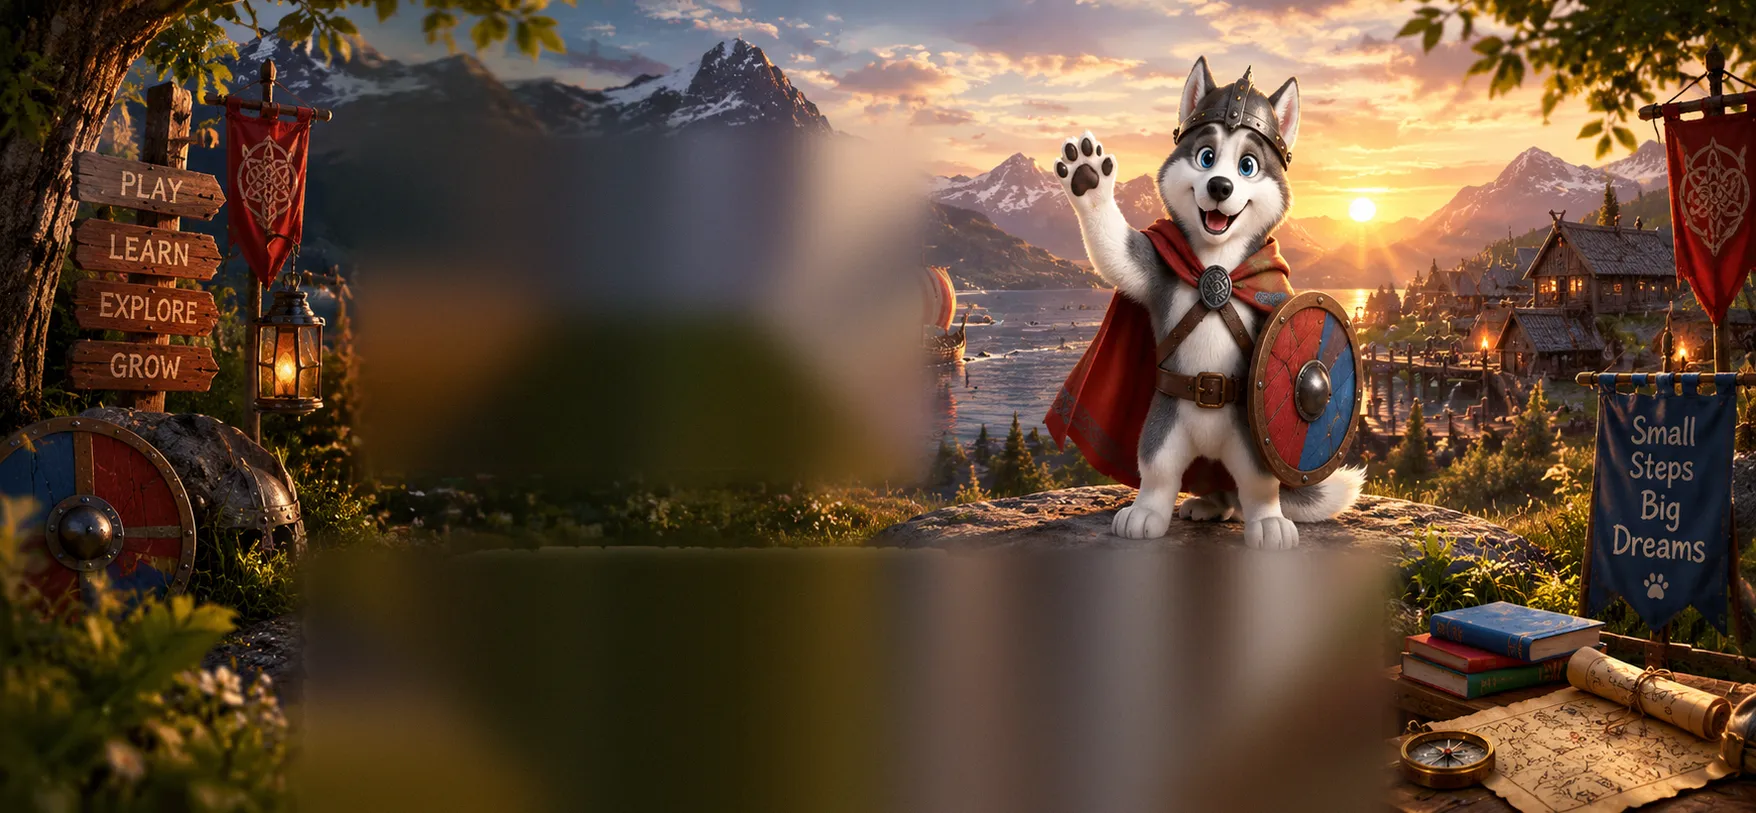
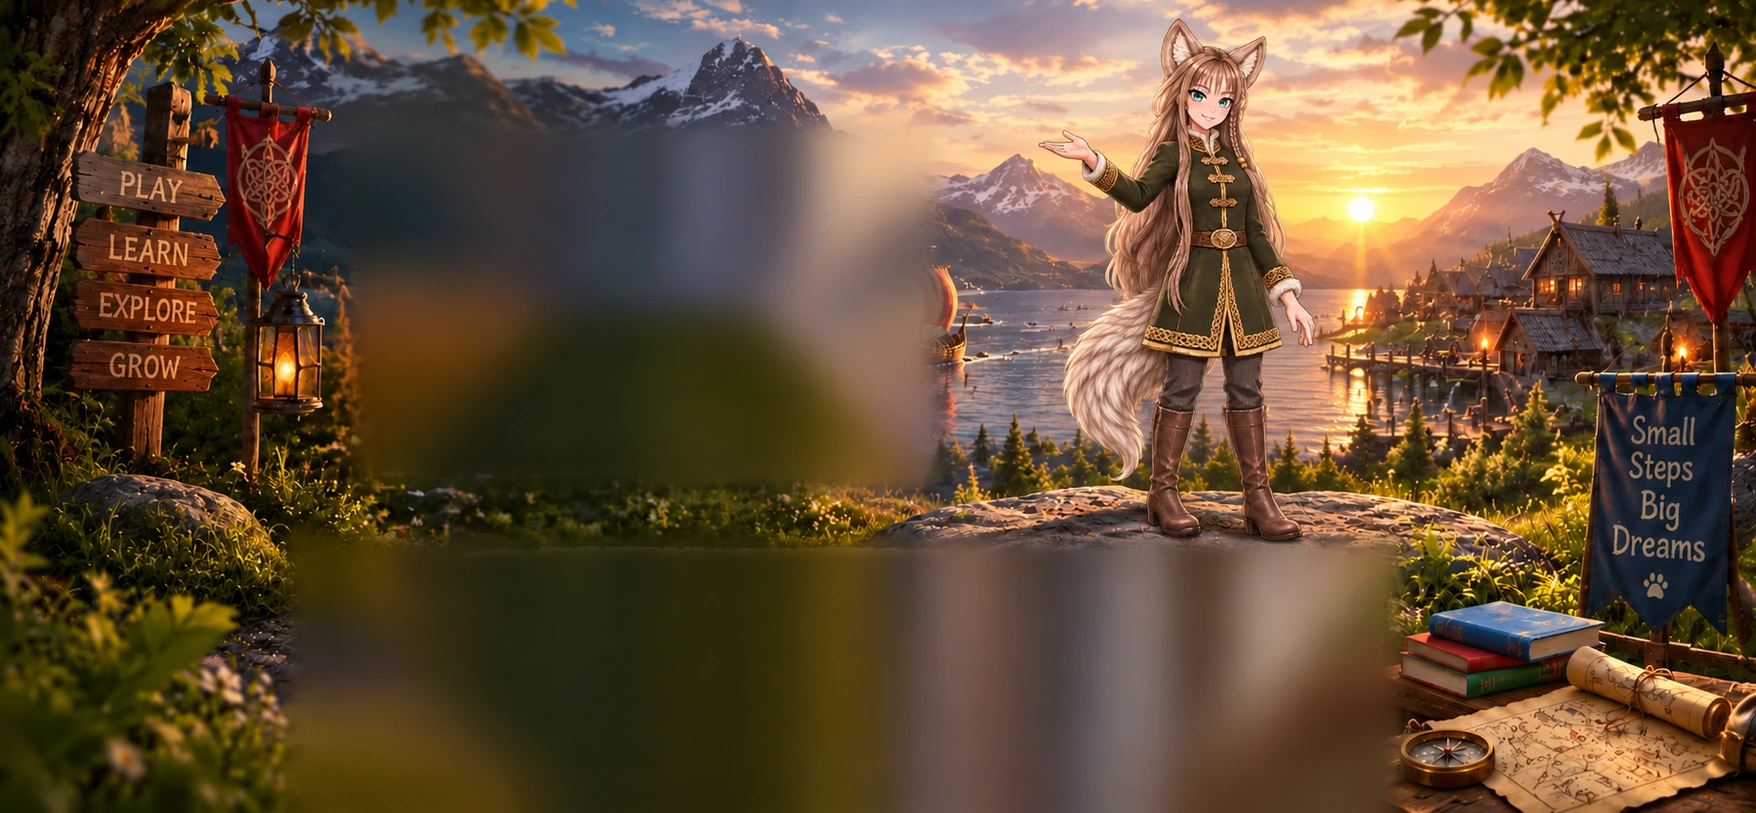
Update MEC characters and individual pricing from approved brochure

diff --git a/precios.html b/precios.html
@@ -1,34 +1,30 @@
 <!doctype html>
 <html lang="es"><head><meta charset="utf-8"><meta name="viewport" content="width=device-width,initial-scale=1">
-<title>Precios · Mastery English Club</title><meta name="description" content="Paquetes de clases personalizadas, grupales y combinadas con descuentos de hasta 30 %.">
+<title>Precios · Mastery English Club</title><meta name="description" content="Clases individuales de inglés de 60 minutos. Paquetes con materiales originales y feedback después de cada clase. Ahorra hasta 31,5 % frente a clases sueltas de $79.000 COP.">
 <link rel="icon" href="img/favicon.ico"><link rel="apple-touch-icon" href="img/apple-touch-icon-180.png">
-<link rel="stylesheet" href="css/crm.css?v=20261017b"><link rel="stylesheet" href="css/web.css?v=20261016p"><link rel="stylesheet" href="css/precios-bg.css?v=20261016g"><link rel="manifest" href="manifest.webmanifest"><meta name="theme-color" content="#07101c"><script src="js/pwa.js?v=20261026a" defer></script></head>
+<link rel="stylesheet" href="css/crm.css?v=20261017b"><link rel="stylesheet" href="css/web.css?v=20261016p"><link rel="stylesheet" href="css/precios-bg.css?v=20261116individuales"><link rel="manifest" href="manifest.webmanifest"><meta name="theme-color" content="#07101c"><script src="js/pwa.js?v=20261026a" defer></script></head>
 <body class="web precios-p precios-bg2"><nav id="site-nav" aria-label="Principal"></nav>
 <main class="precios-v3">
   <picture class="hero-bg precios-bg">
     <source media="(max-width: 700px)" srcset="img/web/hero-precios-mobile.webp" type="image/webp">
     <source srcset="img/web/hero-precios-800.webp 800w, img/web/hero-precios-1280.webp 1280w, img/web/hero-precios-1536.webp 1536w" sizes="100vw" type="image/webp">
-    <img src="img/web/hero-precios-1280.jpg" width="1536" height="978" alt="Mercado vikingo al atardecer: un lobo con casco carga una pila de libros junto al puerto" fetchpriority="high" decoding="async">
+    <img src="img/web/hero-precios-1280.jpg" width="1536" height="978" alt="Skarlat sostiene una pila de libros en un mercado nórdico junto al fiordo al atardecer" fetchpriority="high" decoding="async">
   </picture>
   <header class="precios-hero"><div class="ph-text"><span class="kicker">Invierte en tu futuro</span>
-    <h1>Paquetes con hasta 30% de descuento</h1>
-    <p class="lead">Elige el plan que mejor se adapte a ti y accede a todo el material, la metodología y los beneficios de MEC.</p>
-    <ul class="ph-feats"><li><svg viewBox="0 0 24 24" aria-hidden="true"><circle cx="12" cy="12" r="11.5" fill="rgba(7,12,22,.8)" stroke="#d9a84a"/><path d="M6 7h5v10H6zM13 7h5v10h-5z" fill="none" stroke="#f0c46a" stroke-width="1.3"/></svg><span>Libros físicos y digitales</span></li><li><svg viewBox="0 0 24 24" aria-hidden="true"><circle cx="12" cy="12" r="11.5" fill="rgba(7,12,22,.8)" stroke="#d9a84a"/><circle cx="12" cy="12" r="4" fill="none" stroke="#f0c46a" stroke-width="1.3"/><path d="M12 5v3M12 16v3M5 12h3M16 12h3" stroke="#f0c46a" stroke-width="1.3"/></svg><span>Actividades y proyectos</span></li><li><svg viewBox="0 0 24 24" aria-hidden="true"><circle cx="12" cy="12" r="11.5" fill="rgba(7,12,22,.8)" stroke="#d9a84a"/><path d="M5 7h14v8H5zM9 18h6M12 15v3" fill="none" stroke="#f0c46a" stroke-width="1.3"/></svg><span>Acceso a la plataforma</span></li><li><svg viewBox="0 0 24 24" aria-hidden="true"><circle cx="12" cy="12" r="11.5" fill="rgba(7,12,22,.8)" stroke="#d9a84a"/><circle cx="12" cy="9" r="3" fill="none" stroke="#f0c46a" stroke-width="1.3"/><path d="M6 18c1-3 3.5-4.5 6-4.5s5 1.5 6 4.5" fill="none" stroke="#f0c46a" stroke-width="1.3"/></svg><span>Soporte personalizado</span></li></ul></div>
+    <h1>Clases individuales con hasta 31,5 % de ahorro</h1>
+    <p class="lead">Sesiones de 60 minutos, centradas en tu inglés. Elige tu paquete: materiales originales de MEC y feedback personalizado después de cada clase incluidos.</p>
+    <ul class="ph-feats"><li><svg viewBox="0 0 24 24" aria-hidden="true"><circle cx="12" cy="12" r="11.5" fill="rgba(7,12,22,.8)" stroke="#d9a84a"/><path d="M6 7h5v10H6zM13 7h5v10h-5z" fill="none" stroke="#f0c46a" stroke-width="1.3"/></svg><span>Materiales originales de MEC</span></li><li><svg viewBox="0 0 24 24" aria-hidden="true"><circle cx="12" cy="12" r="11.5" fill="rgba(7,12,22,.8)" stroke="#d9a84a"/><circle cx="12" cy="12" r="4" fill="none" stroke="#f0c46a" stroke-width="1.3"/><path d="M12 5v3M12 16v3M5 12h3M16 12h3" stroke="#f0c46a" stroke-width="1.3"/></svg><span>Actividades y proyectos</span></li><li><svg viewBox="0 0 24 24" aria-hidden="true"><circle cx="12" cy="12" r="11.5" fill="rgba(7,12,22,.8)" stroke="#d9a84a"/><path d="M5 7h14v8H5zM9 18h6M12 15v3" fill="none" stroke="#f0c46a" stroke-width="1.3"/></svg><span>Acceso a la plataforma</span></li><li><svg viewBox="0 0 24 24" aria-hidden="true"><circle cx="12" cy="12" r="11.5" fill="rgba(7,12,22,.8)" stroke="#d9a84a"/><circle cx="12" cy="9" r="3" fill="none" stroke="#f0c46a" stroke-width="1.3"/><path d="M6 18c1-3 3.5-4.5 6-4.5s5 1.5 6 4.5" fill="none" stroke="#f0c46a" stroke-width="1.3"/></svg><span>Soporte personalizado</span></li></ul></div>
     <button type="button" class="aprende" id="abrir-politicas" aria-haspopup="dialog" aria-controls="politicas">Aprende más sobre nuestros paquetes <span aria-hidden="true">→</span></button>
   </header>
   <div class="pgrid">
-    <section class="ppanel" id="personalizadas" aria-labelledby="t-pers"><h2 id="t-pers">Clases personalizadas 1 a 1</h2><p class="psub">Tu ritmo. Tu objetivo. Tu clase.</p>
+    <section class="ppanel ancho" id="personalizadas" aria-labelledby="t-pers"><h2 id="t-pers">Clases individuales 1 a 1</h2><p class="psub">Tu ritmo. Tu objetivo. Tu clase. Compara cuánto ahorras frente a clases sueltas de $79.000.</p>
       <div class="pcards" id="p-pers"></div><p class="suelta2" id="s-pers"></p></section>
-    <section class="ppanel" id="grupales" aria-labelledby="t-grup"><h2 id="t-grup">Clases grupales</h2><p class="psub">Aprende en equipo, avanza más. Grupos de 2 a 4 estudiantes.</p>
-      <div class="pcards" id="p-grup"></div><p class="suelta2" id="s-grup"></p></section>
-    <section class="ppanel ancho" id="combinados" aria-labelledby="t-comb"><h2 id="t-comb">Paquetes combinados</h2><p class="psub">Más clases, más progreso, más valor.</p>
-      <div class="pcards" id="p-comb"></div></section>
   </div>
   <p class="cta-row pcta"><a class="btn lg red" data-wa href="#">Elige tu plan y comienza hoy <span aria-hidden="true">→</span></a></p>
   <p class="nota wrap" id="nota"></p>
-  <dialog id="politicas" aria-labelledby="pol-t"><h2 id="pol-t">Políticas de uso de los paquetes</h2><ul><li>Las clases se solicitan en los espacios libres del calendario de cada profesor.</li><li>Cancelación gratis hasta 12 h antes (la noche anterior).</li><li>2 pases libres; después, las inasistencias o cancelaciones tardías se descuentan.</li><li>Los paquetes con pago pendiente no se pueden usar.</li><li>Vigencia: paquetes de 20 clases o menos, 6 meses; de más de 20 clases, 1 año.</li><li>Los grupos requieren mínimo 2 estudiantes y máximo 4.</li><li>Clases CLUB gratis los fines de semana para inscritos (hasta 10).</li><li>Precios por estudiante en COP.</li><li>Pagos por Nequi/Daviplata, PayPal o Western Union.</li></ul>
+  <dialog id="politicas" aria-labelledby="pol-t"><h2 id="pol-t">Políticas de uso de los paquetes</h2><ul><li>Las clases se solicitan en los espacios libres del calendario de cada profesor.</li><li>Cancelación gratis hasta 12 h antes (la noche anterior).</li><li>2 pases libres; después, las inasistencias o cancelaciones tardías se descuentan.</li><li>Los paquetes con pago pendiente no se pueden usar.</li><li>Vigencia: paquetes de 20 clases o menos, 6 meses; de más de 20 clases, 1 año.</li><li>Precios por estudiante en COP.</li><li>Pagos por Nequi/Daviplata, PayPal o Western Union.</li></ul>
     <button type="button" class="btn" data-cerrar>Cerrar</button></dialog>
 </main>
 <footer class="site"><div class="wrap"><p class="rune-div" aria-hidden="true"></p>
 <p>© <span id="year"></span> Mastery English Club · Instituto virtual de inglés · <a href="contacto.html">Contáctanos</a> · <a href="login.html">Ingresar</a></p></div></footer>
-<script src="js/web/data.js?v=20261024a"></script><script src="js/web/precios.js?v=20261016e"></script><script src="js/web/precios-page.js?v=20261016m"></script><script src="js/web/site.js?v=20261110a"></script></body></html>
+<script src="js/web/data.js?v=20261024a"></script><script src="js/web/precios.js?v=20261116individuales"></script><script src="js/web/precios-page.js?v=20261116individuales"></script><script src="js/web/site.js?v=20261110a"></script></body></html>

diff --git a/js/web/precios-page.js b/js/web/precios-page.js
@@ -1,23 +1,24 @@
 (function () {
-  const P = window.MEC_PRECIOS, $ = (s) => document.querySelector(s), L = P.lista, T = P.tasas;
+  const P = window.MEC_PRECIOS.personalizadas, $ = (s) => document.querySelector(s);
   const n = (v) => Math.round(v).toString().replace(/\B(?=(\d{3})+(?!\d))/g, ".");
   const cop = (v) => "$" + n(v) + " COP";
-  const fx = (v) => { const u = v / T.copUsd, e = u * T.usdEur; return `≈ ${u.toFixed(2).replace(".", ",")} USD · ${e.toFixed(2).replace(".", ",")} EUR`; };
-  const card = (k, titulo, cnt, clases, lista, top) => `<article class="pcard${top ? " top" : ""}">
-    <div class="pdesc"><b>−${k.desc}%</b><small>Ahorro</small></div>
-    <h3>${titulo}</h3><div class="pcnt">${cnt}</div>
-    <div class="pantes"><s>${cop(lista)}</s></div><div class="pcop">${cop(k.cop)}</div>
-    <div class="pxclase">${cop(k.cop / clases)} por clase</div>
-    <div class="pfx" data-fx>${fx(k.cop)}</div></article>`;
-  const pp = P.personalizadas.paquetes, gp = P.grupales.paquetes, cp = P.combinados.paquetes;
-  $("#p-pers").innerHTML = pp.map((k, i) => card(k, "Paquete " + k.id, k.clases + " clases", k.clases, k.clases * L.pers, i === pp.length - 1)).join("");
-  $("#p-grup").innerHTML = gp.map((k, i) => card(k, "Paquete " + k.id, k.clases + " clases", k.clases, k.clases * L.grup, i === gp.length - 1)).join("");
-  $("#p-comb").innerHTML = cp.map((k, i) => card(k, "Combo " + String(k.id).replace(/^C/, ""), `${k.pers + k.grup} clases (${k.pers} personalizadas + ${k.grup} grupales)`, k.pers + k.grup, k.pers * L.pers + k.grup * L.grup, i === cp.length - 1)).join("");
-  const ps = P.personalizadas.suelta;
-  $("#s-pers").innerHTML = `Clase suelta personalizada: <s>${cop(ps.lista)}</s> <strong>${cop(ps.cop)}</strong> <span class="etq">Descuento especial ${ps.desc}%</span>`;
-  $("#s-grup").innerHTML = `Clase suelta grupal: <strong>${cop(P.grupales.suelta.cop)}</strong>`;
-  $("#nota").textContent = `Precios por estudiante, en pesos colombianos (COP), IVA incluido. Precio de lista por clase: personalizada ${cop(L.pers)}, grupal ${cop(L.grup)}. Conversión de referencia: 1 USD = ${n(T.copUsd)} COP · 1 USD = ${String(T.usdEur).replace(".", ",")} EUR.`;
-  // Modal "Aprende más": <dialog> nativo (foco atrapado, Esc cierra); devuelve el foco al botón.
+  const card = (k, top) => {
+    const base = k.clases * P.suelta.cop, ahorro = base - k.cop;
+    const porcentaje = (ahorro / base * 100).toFixed(1).replace(".", ",");
+    const porClase = k.cop / k.clases, aprox = Number.isInteger(porClase) ? "" : "≈ ";
+    return '<article class="pcard' + (top ? ' top' : '') + '" data-plan="' + k.id + '">'
+      + '<div class="pdesc"><b>−' + porcentaje + ' %</b><small>Ahorro</small></div>'
+      + '<h3>' + k.clases + ' clases</h3><div class="pcnt">Individuales · 60 minutos</div>'
+      + '<div class="pantes"><span>En clases sueltas: </span><s>' + cop(base) + '</s></div>'
+      + '<div class="pcop">' + cop(k.cop) + '</div>'
+      + '<div class="pxclase">' + aprox + cop(porClase) + ' por clase</div>'
+      + '<p class="pahorro">Ahorras <strong>' + cop(ahorro) + '</strong></p></article>';
+  };
+  const paquetes = P.paquetes;
+  $("#p-pers").innerHTML = paquetes.map((k, i) => card(k, i === paquetes.length - 1)).join("");
+  $("#s-pers").innerHTML = "1 clase suelta individual: <strong>" + cop(P.suelta.cop) + "</strong> · 60 minutos.";
+  $("#nota").textContent = "Precios por estudiante en pesos colombianos (COP), IVA incluido. Materiales originales de MEC y feedback personalizado después de cada clase incluidos. Ahorros frente a clases sueltas de $79.000. Porcentajes redondeados; ≈ indica un valor por clase aproximado.";
+  // Modal "Aprende más": <dialog> nativo; devuelve el foco al botón al cerrar.
   const dlg = $("#politicas"), btn = $("#abrir-politicas");
   if (dlg && btn) {
     btn.addEventListener("click", () => { if (dlg.showModal) dlg.showModal(); else dlg.setAttribute("open", ""); });

diff --git a/index.html b/index.html
@@ -18,7 +18,7 @@
     <h1>Mastery<br>English Club</h1>
     <p class="lead">Clases de inglés virtuales 1 a 1, desde cualquier lugar del mundo, para que ganes confianza y hables desde la primera clase.</p>
     <div class="cta-row"><a class="btn lg red" data-wa href="#">Agenda tu clase</a><a class="btn lg ghost" href="metodologia.html">Conoce la metodología</a></div></div>
-  <span class="sr-only">Ilustración: lobo vikingo, mascota de Mastery English Club, frente a un fiordo nórdico al atardecer</span>
+  <span class="sr-only">Ilustración: Ulf, con su abrigo habitual, junto a un fiordo nórdico al atardecer</span>
 </div></header>
 
 <section class="sec" id="sobre"><div class="wrap grid2">
@@ -28,7 +28,7 @@
     <p>Nuestro enfoque es simple: hablar mucho, en un ambiente de confianza, con un teacher que te acompaña y te corrige con naturalidad. Así pierdes el miedo y ganas seguridad para comunicarte.</p></div>
   <div class="card"><h3 style="font-family:var(--display)">Nuestro enfoque</h3>
     <!-- Texto de Sigrid (web_textos_publicos.md §1) · BORRADOR pendiente de aprobación -->
-    <p data-draft="sigrid">En Mastery English Club aprendes inglés hablando desde la primera clase. Nuestras clases de 55-60 minutos son 100 % en inglés: una parte breve de gramática y el resto vocabulario y conversación real sobre temas que te interesan. Tu teacher te corrige con naturalidad y sigue la conversación, para que pierdas el miedo a hablar. Eliges el curso de tu nivel (A1, A2, B1, B2 o C1), practicas en cada ciclo y recibes feedback motivador y personalizado sobre tu progreso cada mes.</p>
+    <p data-draft="sigrid">En Mastery English Club aprendes inglés hablando desde la primera clase. Nuestras clases de 55-60 minutos son 100 % en inglés: una parte breve de gramática y el resto vocabulario y conversación real sobre temas que te interesan. Tu teacher te corrige con naturalidad y sigue la conversación, para que pierdas el miedo a hablar. Eliges el curso de tu nivel (A1, A2, B1, B2 o C1), practicas en cada ciclo y recibes feedback personalizado después de cada clase, con recomendaciones para repasar y practicar lo aprendido.</p>
     <p><a href="metodologia.html">Ver metodología y material →</a></p></div>
 </div></section>
 

diff --git a/js/web/precios.js b/js/web/precios.js
@@ -1,31 +1,13 @@
-/* Precios MEC · tabla oficial v3 (aprobada por Lobo el 16 oct 2026). Por estudiante, COP, IVA incluido.
-   Precio de lista por clase: personalizada 72.100 COP, grupal 49.000 COP.
-   Conversión opcional de referencia (calculada aquí): 1 USD = 3.000 COP · 1 USD = 0,89381 EUR. */
+/* Precios individuales MEC · alineados con el brochure V12 por instrucción de Lobo, 16 nov 2026.
+   COP por estudiante, IVA incluido. Los ahorros se calculan frente a clases sueltas de 79.000 COP. */
 window.MEC_PRECIOS = {
-  tasas: { copUsd: 3000, usdEur: 0.89381 },
-  lista: { pers: 72100, grup: 49000 },
   personalizadas: {
-    suelta: { lista: 90000, cop: 79000, desc: 12 },
+    suelta: { cop: 79000 },
     paquetes: [
-      { id: "P1", clases: 4,  desc: 5,  cop: 274000 },
-      { id: "P2", clases: 8,  desc: 12, cop: 507000 },
-      { id: "P3", clases: 16, desc: 17, cop: 958000 },
-      { id: "P4", clases: 24, desc: 25, cop: 1298000 }
-    ]
-  },
-  grupales: { // 2 a 4 estudiantes
-    suelta: { cop: 49000 },
-    paquetes: [
-      { id: "G1", clases: 8,  desc: 20, cop: 314000 },
-      { id: "G2", clases: 16, desc: 25, cop: 588000 },
-      { id: "G3", clases: 24, desc: 30, cop: 823000 }
-    ]
-  },
-  combinados: {
-    paquetes: [
-      { id: "C1", pers: 4,  grup: 8,  desc: 20, cop: 544000 },
-      { id: "C2", pers: 8,  grup: 12, desc: 25, cop: 874000 },
-      { id: "C3", pers: 12, grup: 16, desc: 30, cop: 1154000 }
+      { id: "P1", clases: 4,  cop: 274000 },
+      { id: "P2", clases: 8,  cop: 507000 },
+      { id: "P3", clases: 16, cop: 958000 },
+      { id: "P4", clases: 24, cop: 1298000 }
     ]
   }
 };

diff --git a/kids.html b/kids.html
@@ -8,7 +8,7 @@
   <picture class="hero-bg">
     <source media="(max-width: 700px)" srcset="img/web/hero-kids-mobile.webp" type="image/webp">
     <source srcset="img/web/hero-kids-800.webp 800w, img/web/hero-kids-1280.webp 1280w, img/web/hero-kids-1756.webp 1756w" sizes="100vw" type="image/webp">
-    <img src="img/web/hero-kids-1280.jpg" width="1774" height="821" alt="Un husky cachorro vikingo saluda en una aldea junto al fiordo al atardecer, con letreros Play, Learn, Explore y Grow" fetchpriority="high" decoding="async">
+    <img src="img/web/hero-kids-1280.jpg" width="1774" height="821" alt="Nella da la bienvenida a Mastery4Kids frente a un fiordo nórdico al atardecer" fetchpriority="high" decoding="async">
   </picture>
   <div class="wrap kids-text"><span class="kicker">Mastery4Kids · 6 a 12 años</span>
     <h1>Inglés que se vive <span>Jugando</span></h1>

diff --git a/css/precios-bg.css b/css/precios-bg.css
@@ -24,3 +24,9 @@ body.precios-bg2 .precios-v3::after{content:"";position:absolute;z-index:0;left:
 body.precios-bg2 .precios-v3>*:not(.precios-bg){position:relative;z-index:2}
 body.precios-bg2 footer.site{background:#1a1008;border-top:1px solid #c9a15e55}
 body.precios-bg2 .precios-v3{overflow:hidden}
+
+/* Oferta individual vigente: un solo panel, con ahorro comparado con clases sueltas. */
+body.precios-bg2 #personalizadas{max-width:1100px}
+body.precios-bg2 #personalizadas .pcop{font-size:clamp(.95rem,1.8vw,1.35rem)}
+body.precios-bg2 .pahorro{margin:10px 0 0;font-size:.8rem;color:#e8edf3}
+body.precios-bg2 .pahorro strong{display:block;margin-top:3px;color:#f0c46a;font-size:1rem}

diff --git a/sw.js b/sw.js
@@ -4,7 +4,7 @@
    - Páginas: primero la red (siempre lo más nuevo); sin conexión, la última copia o un aviso.
    - css/js/img/fuentes: copia rápida y se actualiza por detrás (los ?v= de cada archivo evitan versiones viejas).
    Para forzar a todos a limpiar la caché: cambiar VERSION. */
-const VERSION = "mec-20261109b";
+const VERSION = "mec-20261116-personajes-precios1";
 const STATIC = /\.(css|js|webp|png|jpe?g|svg|ico|ttf|woff2?|webmanifest)$/i;
 self.addEventListener("install", () => self.skipWaiting());
 self.addEventListener("activate", (e) => e.waitUntil((async () => {
